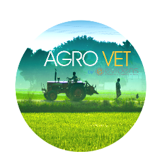
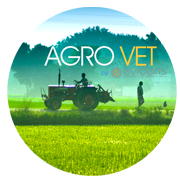
:fie: finished without video

diff --git a/css/estilos.css b/css/estilos.css
@@ -158,10 +158,11 @@ img.show {
 }
 .area img{
   display: inline-block;
-  padding: .5em 1em;
   height: 160px;
   width: 160px;
   border-radius: 100%;
+  background: #fff;
+  background: rgba(0,0,0,0.8);
 }
 .area .area-description{
   display: inline-block;
@@ -177,6 +178,7 @@ img.show {
 .trans{
   background: rgba(0,0,0,0.8);
   padding: 10px;
+  overflow-x: hidden;
 }
 p.first{
   padding-bottom: 0;
